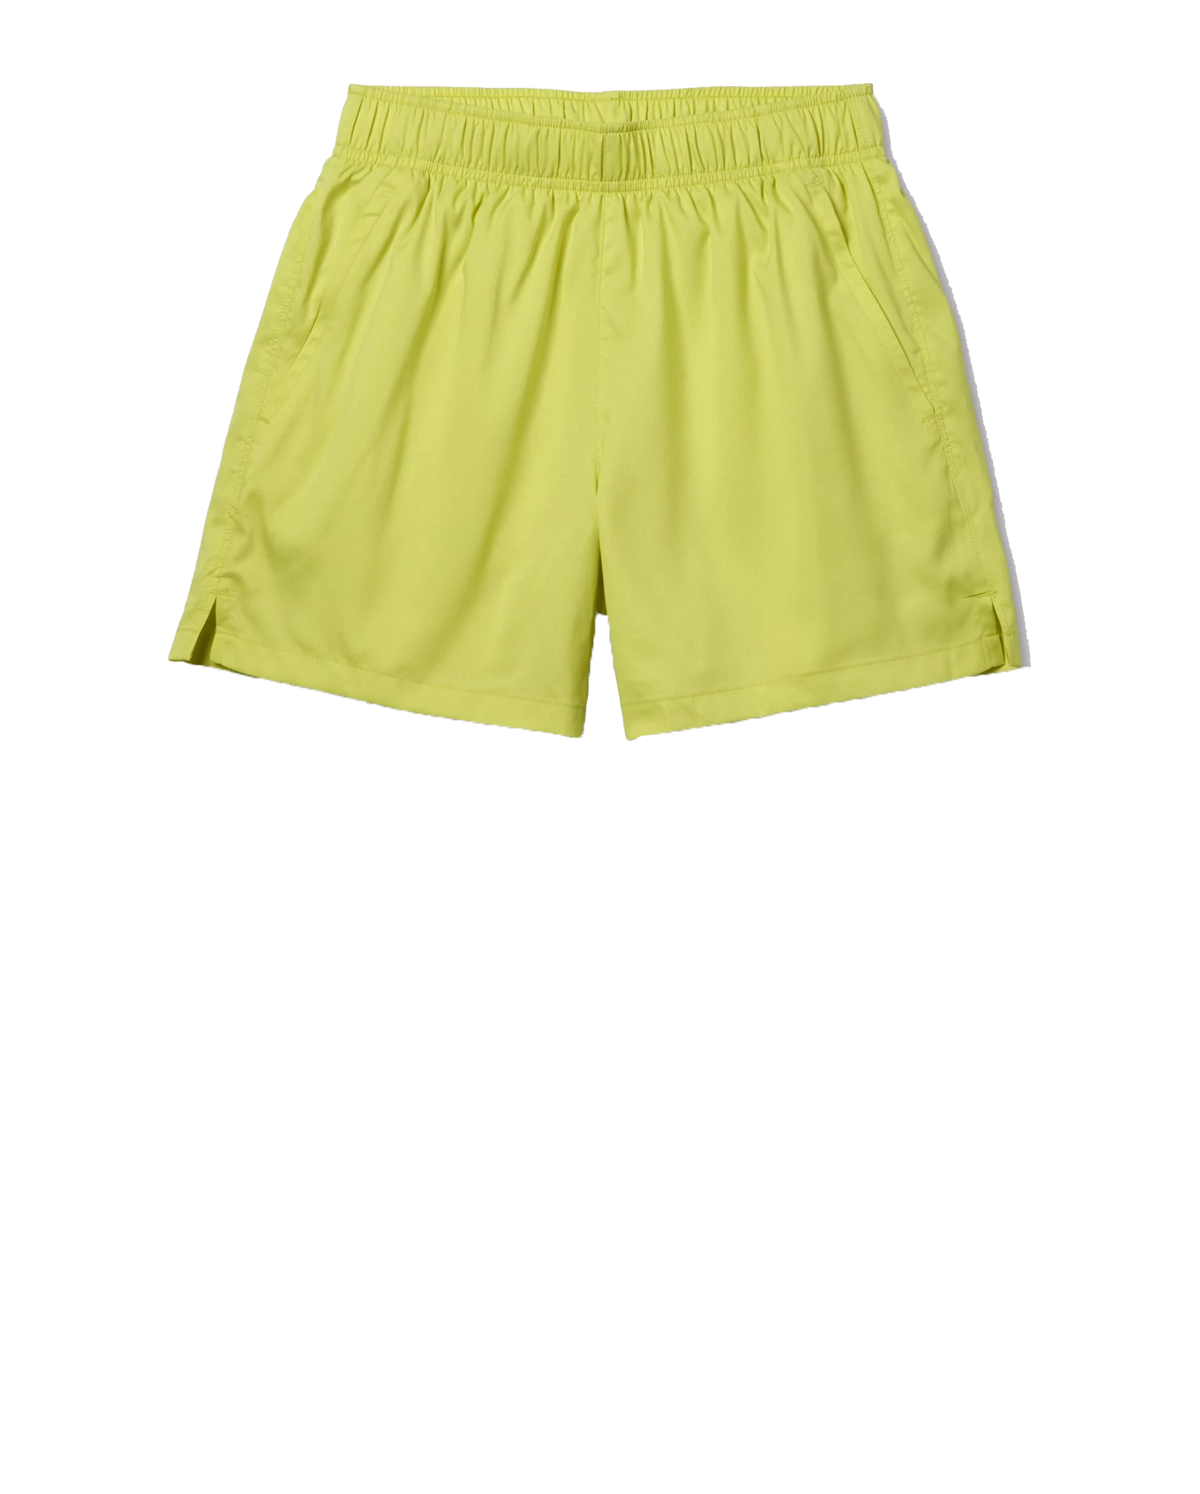
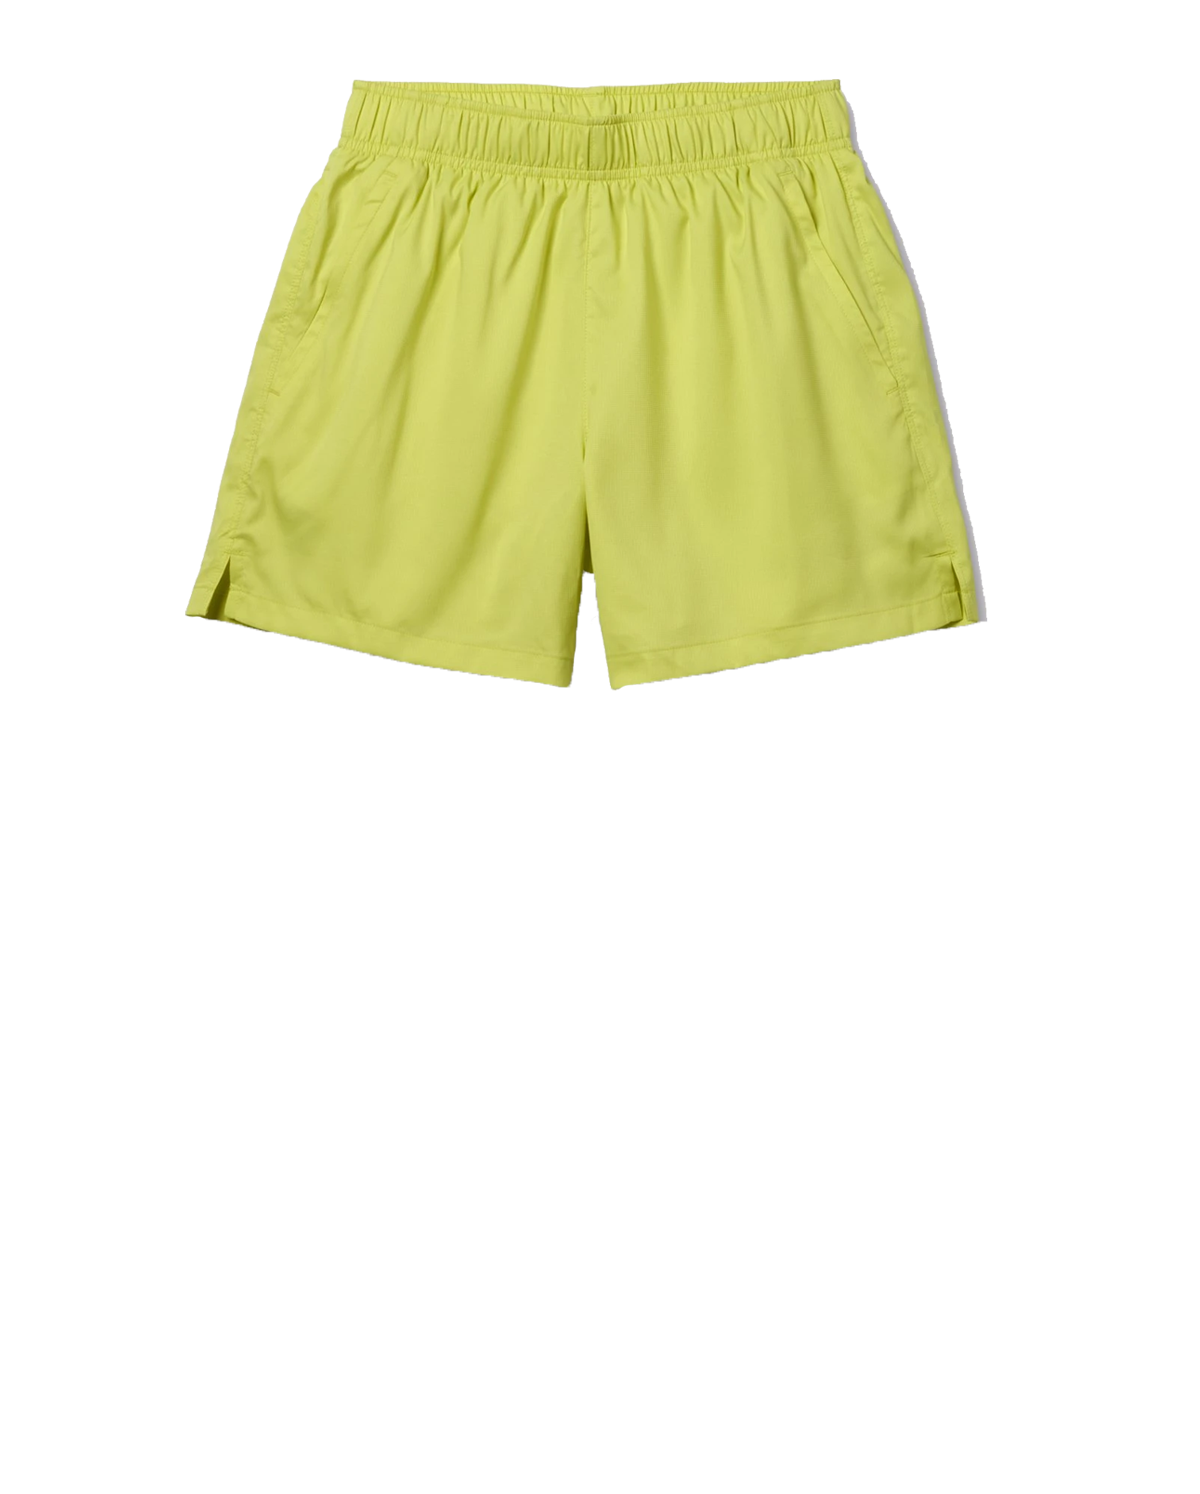
more clothes

diff --git a/finalproject/fittingroom/templates/fittingroom/select-pre.html b/finalproject/fittingroom/templates/fittingroom/select-pre.html
@@ -21,19 +21,19 @@
       <div id="main-content" class="d-flex flex-row scrollmenu">
         <div class="outfit-holder d-flex flex-column">
           <div class="hat">
-            <img src="{% static 'images/athleisure/hat-athleisure-earthy-4.png' %}">
+            <img src="{% static 'images/athleisure/earthy/hat/1.png' %}">
           </div>
           <div class="top">
-            <img src="{% static 'images/athleisure/top-athleisure-earthy-1.png' %}">
+            <img src="{% static 'images/athleisure/earthy/top/1.png' %}">
           </div>
           <div class="bottom">
-            <img src="{% static 'images/athleisure/bottom-athleisure-earthy-3.png' %}">
+            <img src="{% static 'images/athleisure/earthy/bottom/2.png' %}">
           </div> 
           <div class="accessory">
-            <!-- <img src="{% static 'images/athleisure/accessory-athleisure-earthy-1.png' %}"> -->
+            <img src="{% static 'images/athleisure/earthy/accessory/1.png' %}">
           </div> 
           <div class="shoes">
-            <img src="{% static 'images/athleisure/shoes-athleisure-earthy-1.png' %}">
+            <img src="{% static 'images/athleisure/earthy/shoes/1.png' %}">
           </div>                 
         </div>
         
